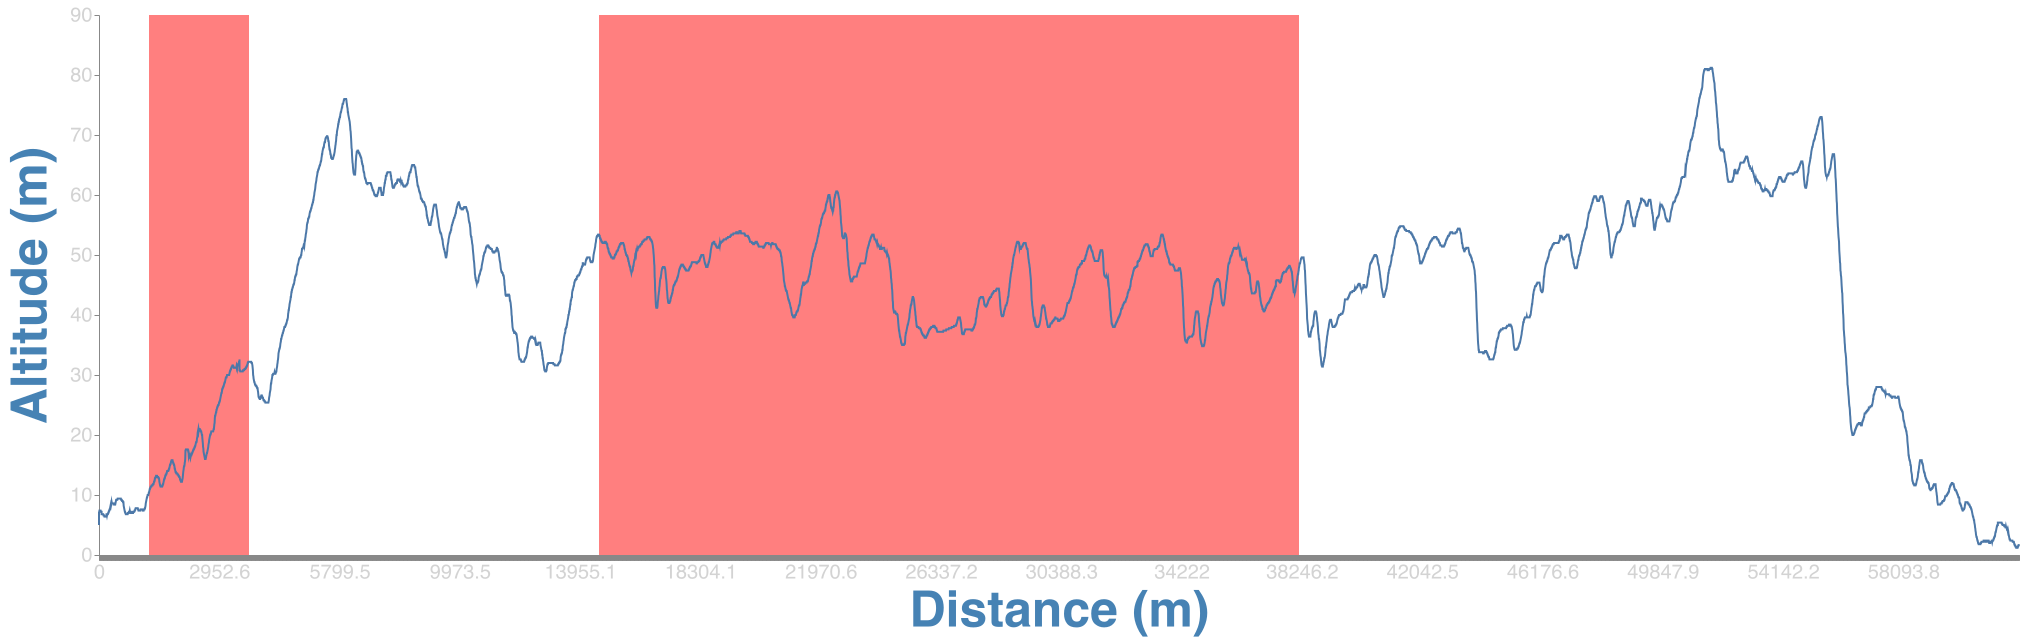
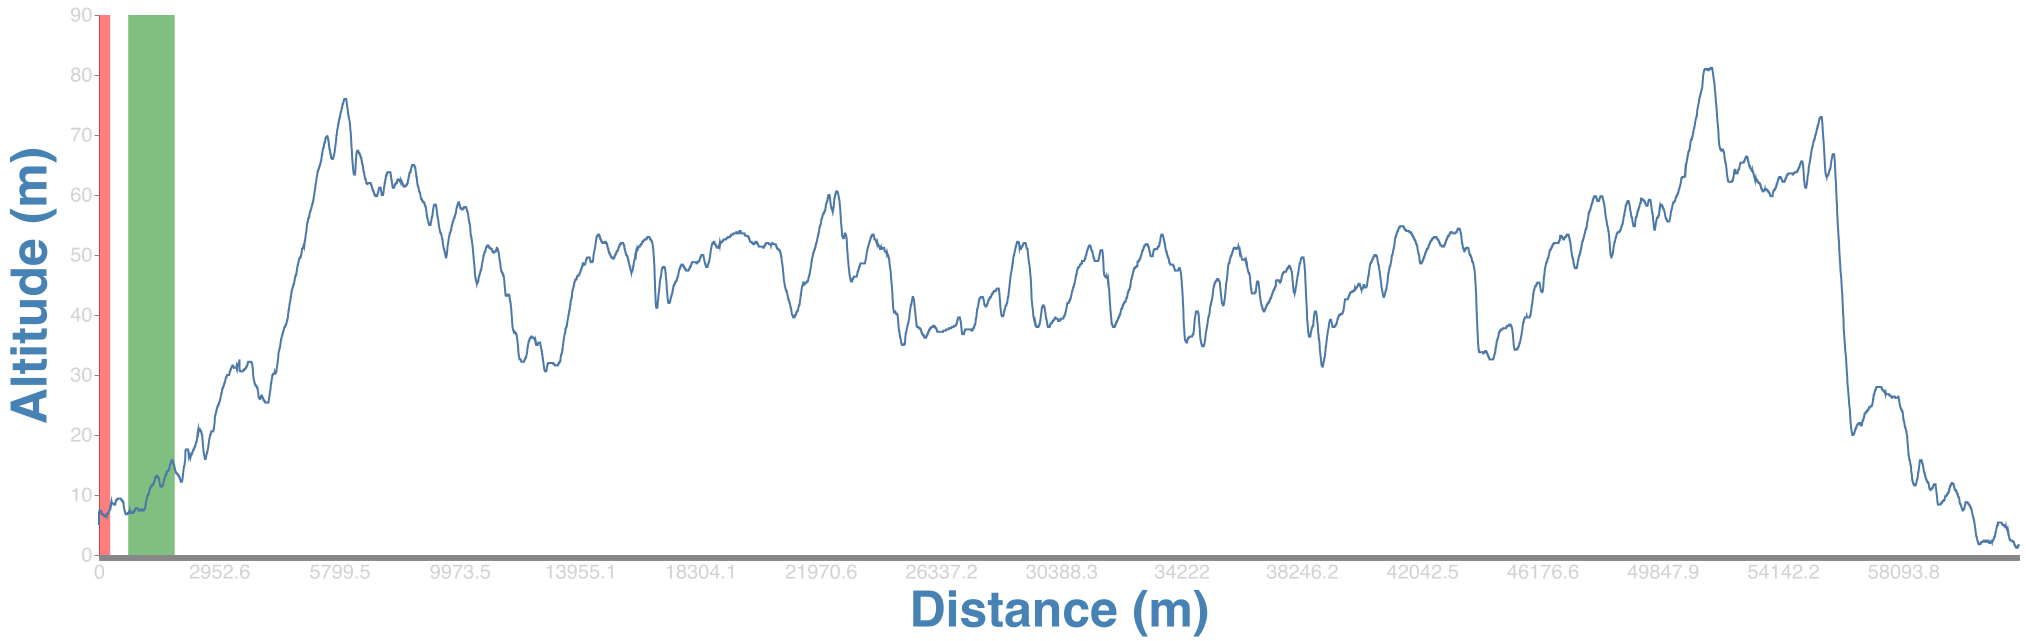
fixed error in graphRides where I did not convert fomr meters to pixels

diff --git a/src/graphRides.js b/src/graphRides.js
@@ -174,8 +174,13 @@ function drawRideAltitude(ride) {
 	// Add hills to the chart
 	for (let hillEntry of ride.hills) {
 		let hill = Object.create(hillSpec);
-		hill.xStart = ride.distance_stream.data[hillEntry.idxStart];
-		hill.xEnd = ride.distance_stream.data[hillEntry.idxEnd];
+
+		// Convert the indexes of the hills to x values in pixels
+		let hillStartMeters = ride.distance_stream.data[hillEntry.idxStart];
+		let hillEndMeters = ride.distance_stream.data[hillEntry.idxEnd];
+		hill.xStart = (hillStartMeters / ride.distance) * 1920;
+		hill.xEnd = (hillEndMeters / ride.distance) * 1920;
+
 		hill.color = hillEntry.averageGradient > 0 ? "red" : "green";
 		rideChartSpec.data[1].values.push(hill);
 	}

diff --git a/src/index.js b/src/index.js
@@ -4,6 +4,7 @@ const {
 	rideEntry,
 	typeOfRide,
 	calculateMissingRideValues,
+	findHills,
 } = require("./rideClassifier.js");
 const { drawRideAltitude } = require("./graphRides.js");
 
@@ -137,7 +138,8 @@ function testFindHills() {
 	try {
 		const data = fs.readFileSync("../resources/activites.json", "utf8");
 		let rides = JSON.parse(data);
-		drawRideAltitude(findHills(rides[0]));
+		rides[0].hills = findHills(rides[0]);
+		drawRideAltitude(rides[0]);
 	} catch (err) {
 		console.error(err);
 	}
